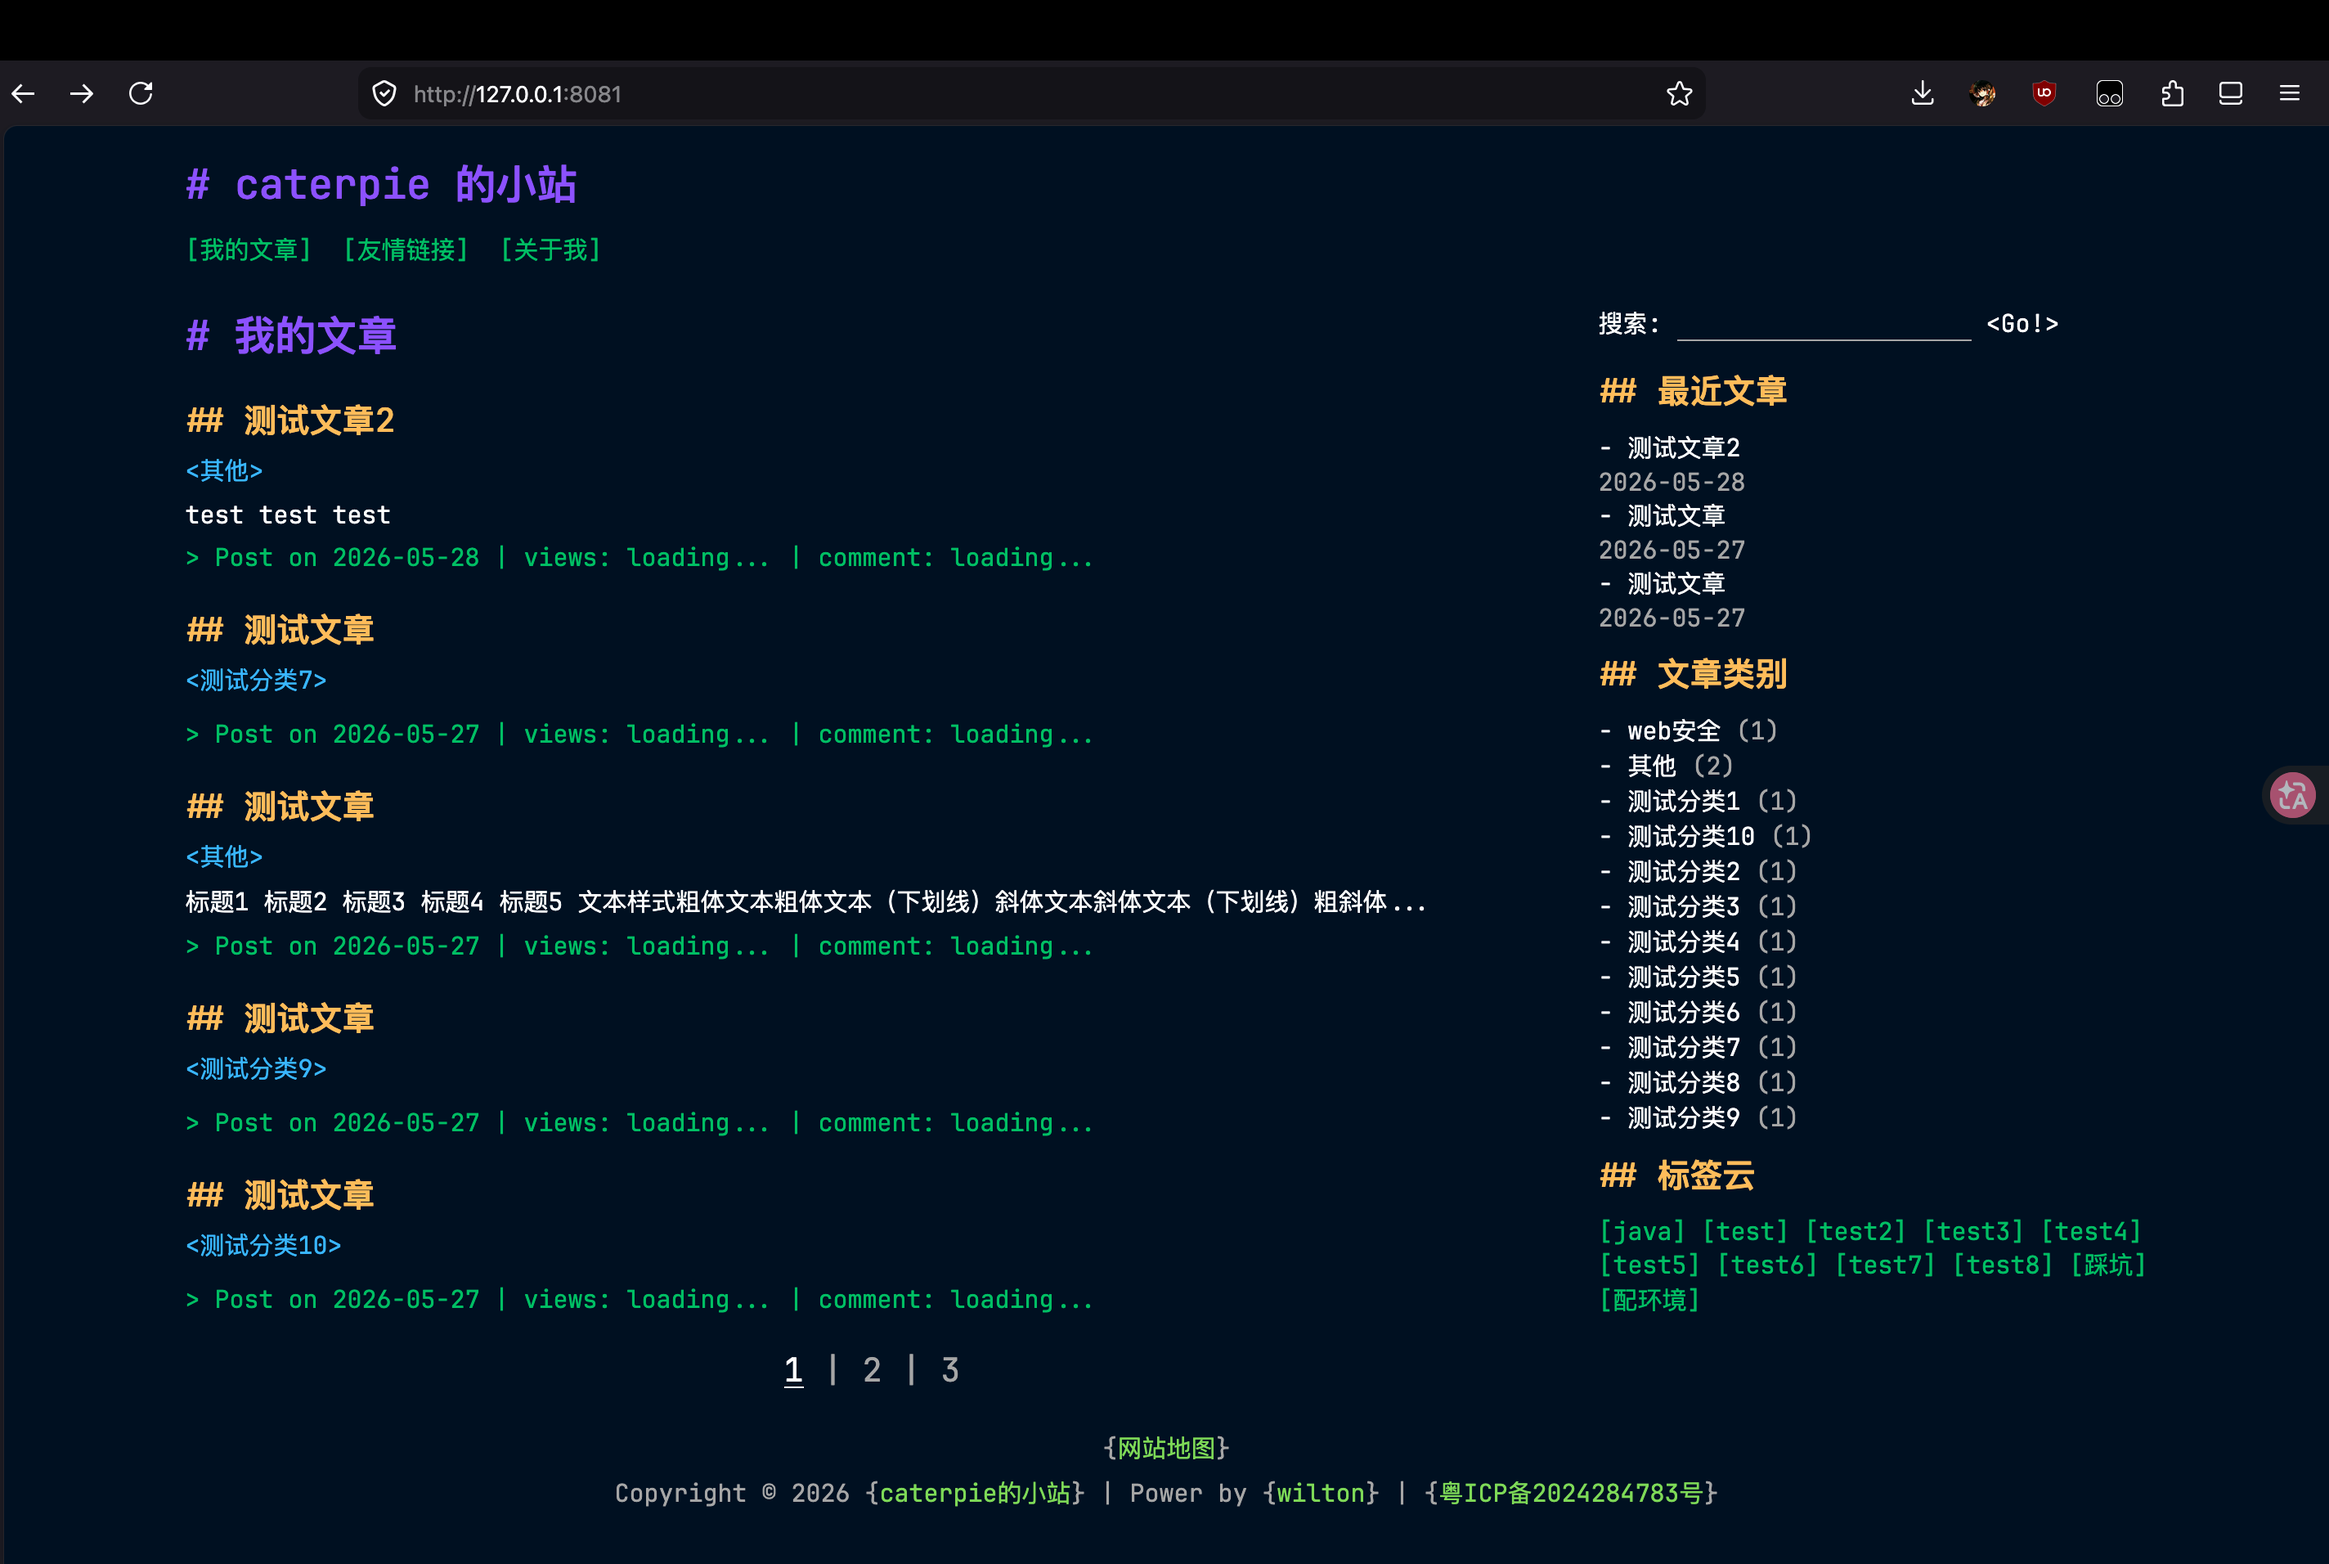
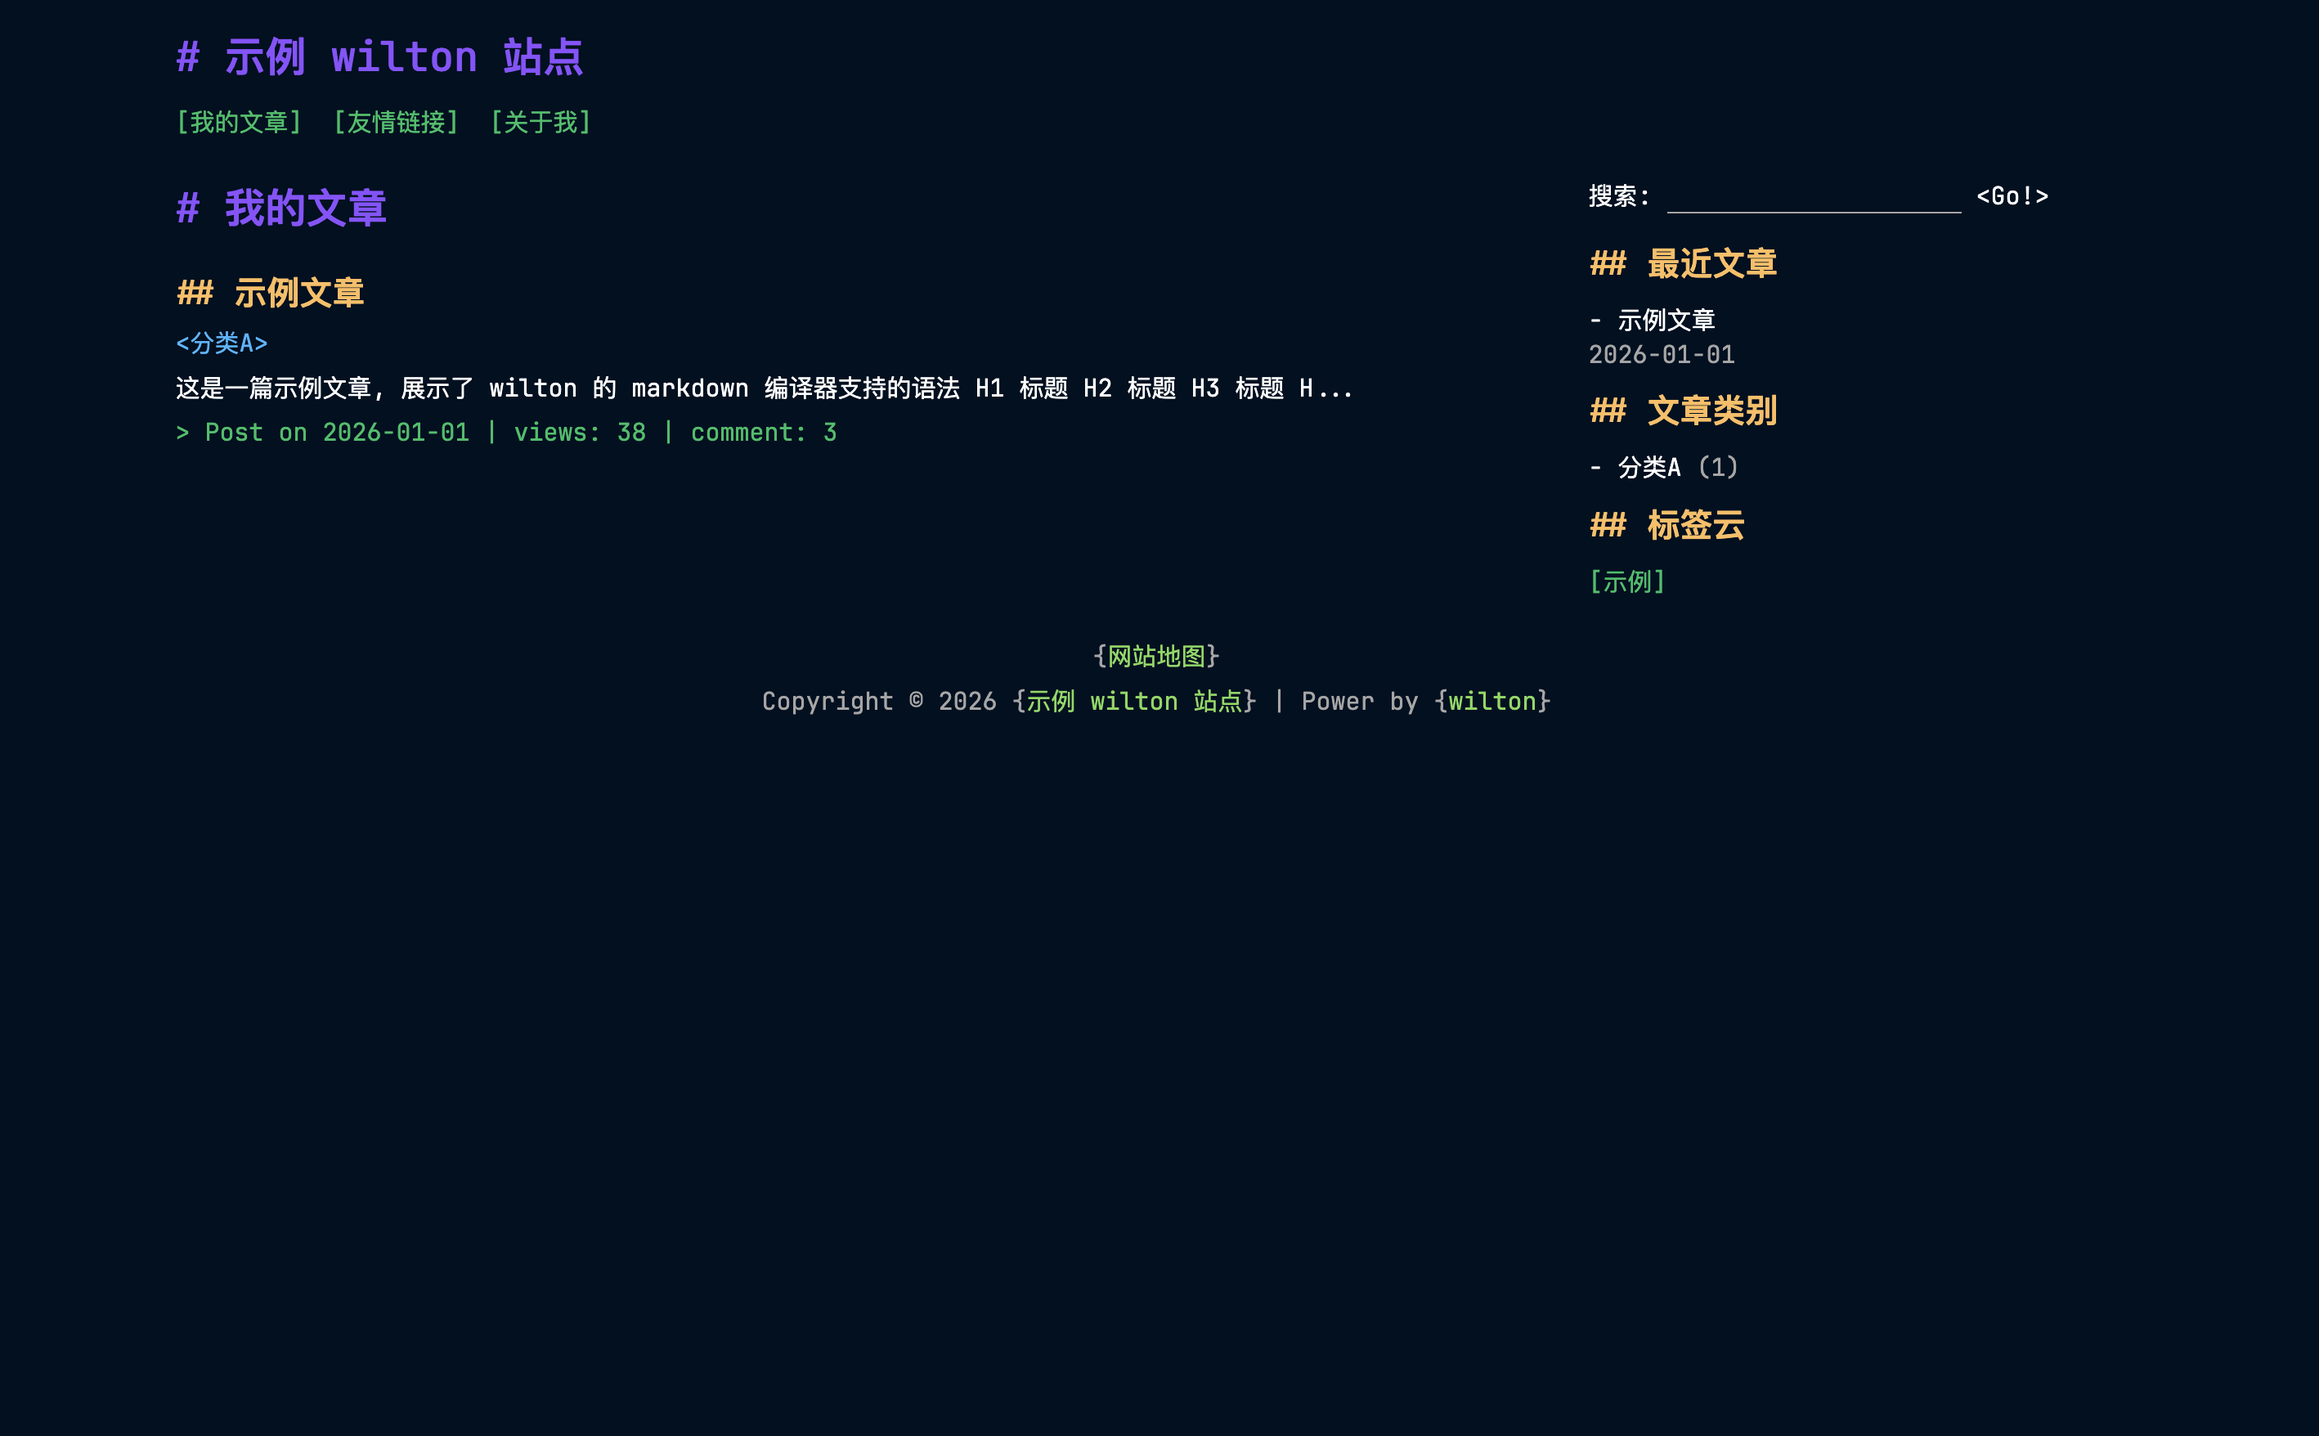
Update README with usage, features and images

diff --git a/README.md b/README.md
@@ -1,13 +1,26 @@
 # wilton
 
+![wilton.png](./docs/wilton.png)
+
 为撰写技术博客设计的终端风格的静态站点生成器
 
 访问量统计和评论区服务目前用的是腾讯的 EdgeOne, 之后会加入更多平台的支持
 
-> [!IMPORTANT]
-> 大部分代码是作者手搓的, 但请不要相信作者的代码质量比 VibeCoder 更好
->
-> 作者已经沉浸在自己的艺术中了, 能跑起来, 但请慎用
+## 使用方法
+
+### pip 安装
+
+```sh
+pip install wilton
+wilton --src="你的博客源码目录" --dist="输出目录"
+```
+
+### uv 安装
+
+```sh
+uv tool install wilton
+uvx wilton --src="你的博客源码目录" --dist="输出目录"
+```
 
 ## 部分外观展示
 
@@ -19,11 +32,19 @@
 
 ![img2](./docs/img2.png)
 
-![img3](./docs/img3.png)
+目前 wilton 支持所有 CommonMark 语法
+
+额外支持:
+
+* 表格
+* github alert 消息
+* latex 公式
+* 高亮文本
+* 脚注
 
 ### 搜索页
 
-![img4](./docs/img4.png)
+![img3](./docs/img3.png)
 
 ## 构建流程
 
@@ -52,9 +73,7 @@
 
 ## TODO
 
-现在该项目已经包含了最基本的功能了
-
-如有机会我可能会加入下面这些功能 (顺序不代表任务优先级)
+计划加入的功能 (顺序不代表优先级):
 
 - [ ] 构建缓存与增量编译
 - [ ] 切换颜色主题; 毕竟是终端风格, **理论上**用一个类似 Color Scheme 的机制就能实现这一点
@@ -62,5 +81,9 @@
   - [ ] cloudflare pages
   - [ ] vercel
   - [ ] 个人服务器, 基于 nginx + fastapi
-- [ ] mermaid 渲染
+- [ ] 支持 mermaid 图表
 - [ ] 完善的使用文档与二次开发文档
+- [ ] 并行化构建, 加快构建速度
+- [ ] i18n
+
+如有其他您期望的功能, 可以在 issue 中留言
